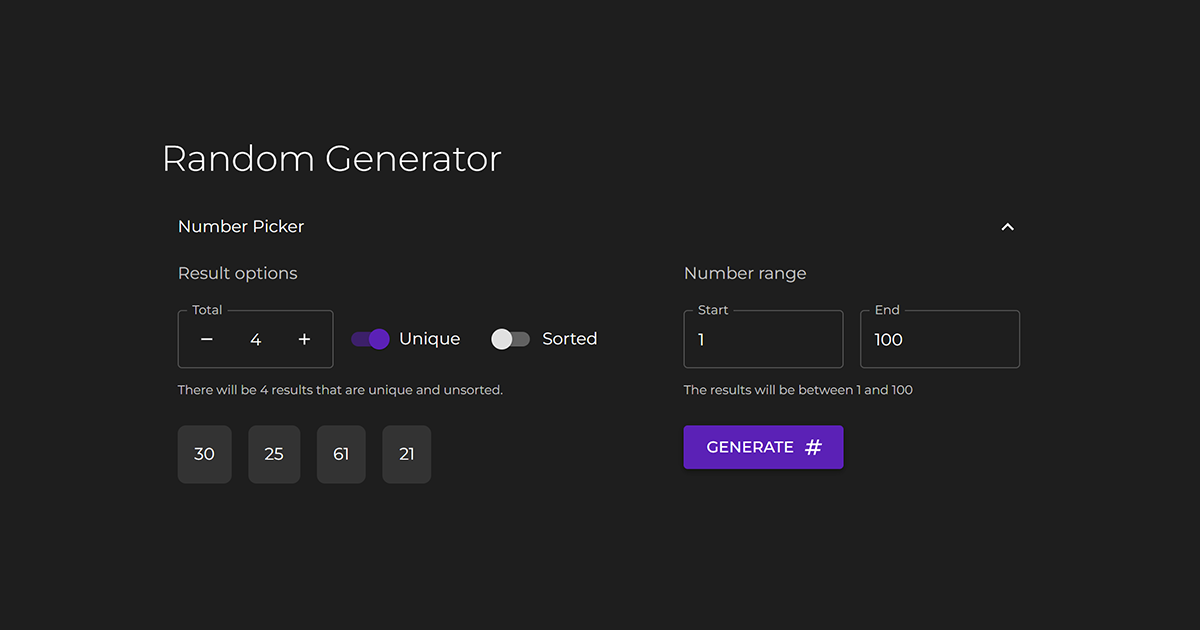
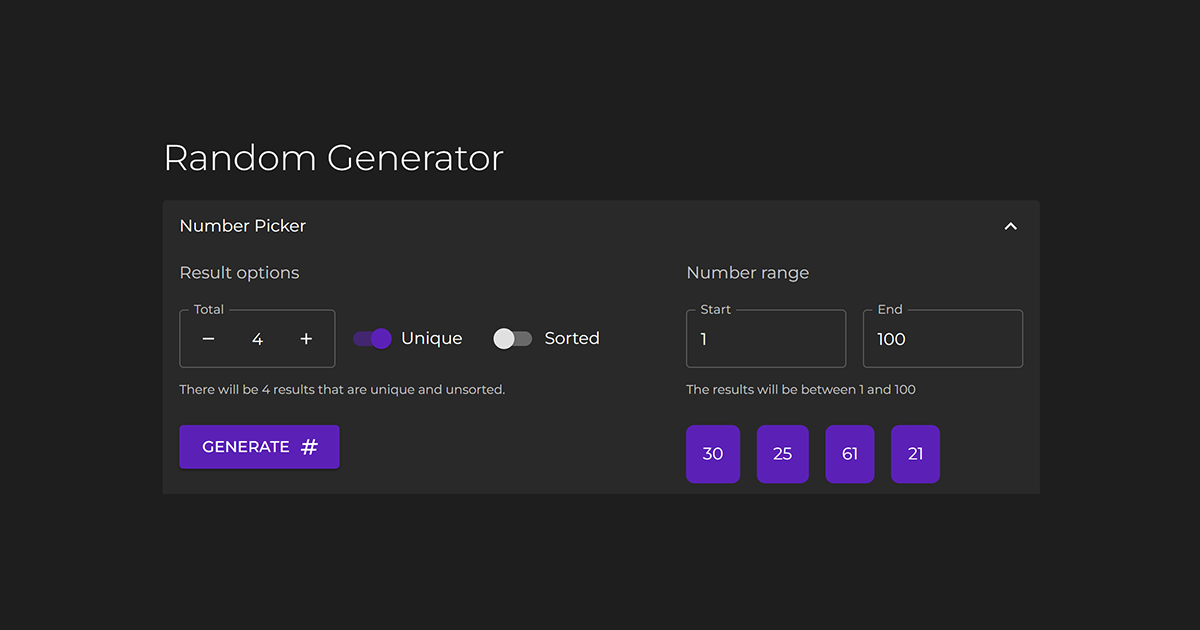
og image fixes

diff --git a/components/RandomGenerator/NumberPicker/Output.jsx b/components/RandomGenerator/NumberPicker/Output.jsx
@@ -7,7 +7,7 @@ const Output = ({ number, isLottery }) => {
             sx={{
                 position: 'relative',
                 padding: 2,
-                backgroundColor: isLottery ? 'red' : 'background.secondary',
+                backgroundColor: isLottery ? '#ba000d' : 'primary.main',
                 borderRadius: 2,
                 cursor: 'pointer',
                 '& button': {

diff --git a/README.md b/README.md
@@ -42,7 +42,7 @@ I built these tools to help speed my development process.
 
 ### Color Picker
 
-![Color Picker](https://github.com/huffmanks/tools-nextjs/blob/main/public/readme/color-picker-readme.png?raw=true)
+![Color Picker](https://github.com/huffmanks/tools-nextjs/blob/main/public/readme/color-picker.png?raw=true)
 
 [Google Color Picker](https://www.google.com/search?q=color+picker)
 \
@@ -53,7 +53,7 @@ I built these tools to help speed my development process.
 
 ### Unit Converter
 
-![Unit Converter](https://github.com/huffmanks/tools-nextjs/blob/main/public/readme/unit-converter-readme.png?raw=true)
+![Unit Converter](https://github.com/huffmanks/tools-nextjs/blob/main/public/readme/unit-converter.png?raw=true)
 
 [Google Unit Converter](https://www.google.com/search?q=unit+converter)
 \
